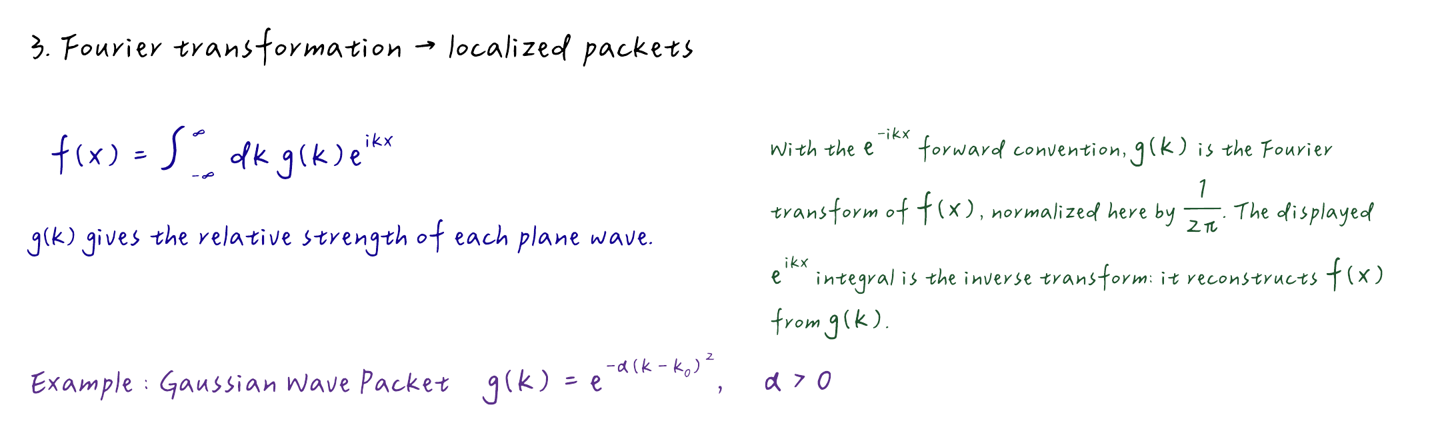
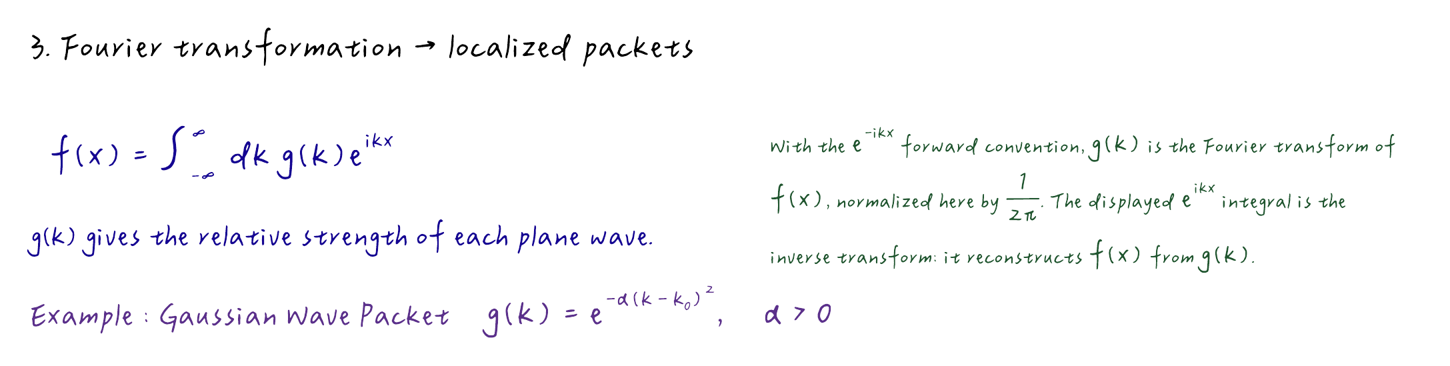
Set Fourier side note to compact 15-unit size

diff --git a/tools/font/README.md b/tools/font/README.md
@@ -100,7 +100,7 @@ python tools/font/verify_note_annotation_layout.py
 python tools/font/verify_note_annotation_layout.py /path/to/quantum_notes/full_lecture
 ```
 
-The Fourier clarification is placed to the right of the integral and its blue explanatory sentence, using a 315-unit column at a smaller 17-unit size (previously 19). Its real wrapped height is reserved before the Gaussian example begins; the prose and math remain unchanged. The clarification states: with the negative-exponent forward convention, `g(k)` is the Fourier transform of `f(x)` with the lecture's `1/(2π)` normalization; the displayed positive-exponent integral reconstructs `f(x)` as the inverse transform. `ANNOTATION_COLOR` in the shared annotation module controls both annotation prose and math; ordinary blue explanations retain their color.
+The Fourier clarification is placed to the right of the integral and its blue explanatory sentence, using a 315-unit column at a smaller 15-unit size (previously 19). Its real wrapped height is reserved before the Gaussian example begins; the prose and math remain unchanged. The clarification states: with the negative-exponent forward convention, `g(k)` is the Fourier transform of `f(x)` with the lecture's `1/(2π)` normalization; the displayed positive-exponent integral reconstructs `f(x)` as the inverse transform. `ANNOTATION_COLOR` in the shared annotation module controls both annotation prose and math; ordinary blue explanations retain their color.
 
 ## Current output: Version 1.034 — Math weight, operator hats and fraction axis
 
